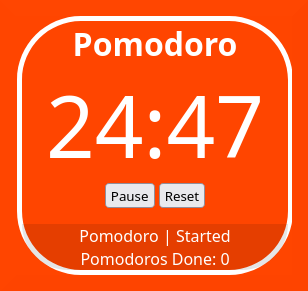
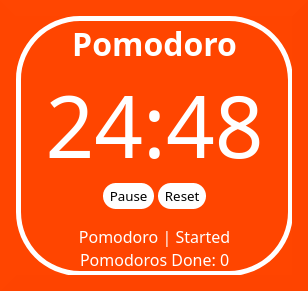
Removed different background color of status border. Added white/black button colors styling.

diff --git a/pomodoro/pomodoro.css b/pomodoro/pomodoro.css
@@ -33,8 +33,14 @@ form {
     display: none;
 }
 
-.status {
-    background-color: rgba(1,1,1,0.1);
-    border-bottom-left-radius: 4em;
-    border-bottom-right-radius: 4em;
+button {
+    background-color: white;
+    border: none;
+    border-radius: 1em;
+    padding: .25em .5em;
+}
+
+button:hover {
+    background-color: black;
+    color: white;
 }
